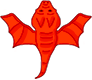
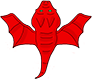
Addeed shockwave tower upgrade images

diff --git a/teedee/src/com/me/screens/TowerView.java b/teedee/src/com/me/screens/TowerView.java
@@ -140,16 +140,16 @@ public class TowerView extends Sprite {
 		String picPath = "";
 		switch(tower.getCurrentLevel()) {
 		case 1:
-			picPath = "img/shockwave.png";
+			picPath = "img/shockwave1.png";
 			break;
 		case 2:
-			picPath = "img/shockwave.png";
+			picPath = "img/shockwave1.png";
 			break;
 		case 3:
-			picPath = "img/shockwave.png";
+			picPath = "img/shockwave2.png";
 			break;
 		case 4:
-			picPath = "img/shockwave.png";
+			picPath = "img/shockwave2.png";
 			break;
 		default:
 			picPath = "img/shockwave.png";
